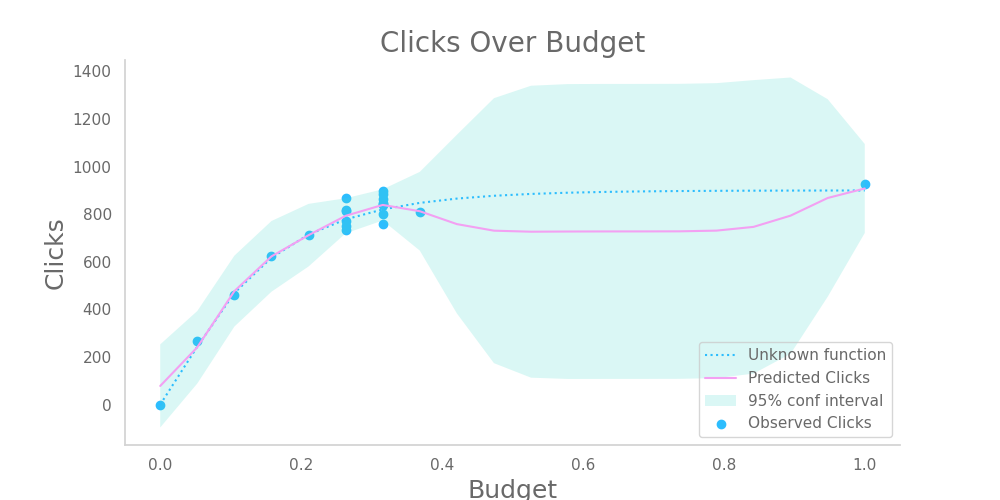
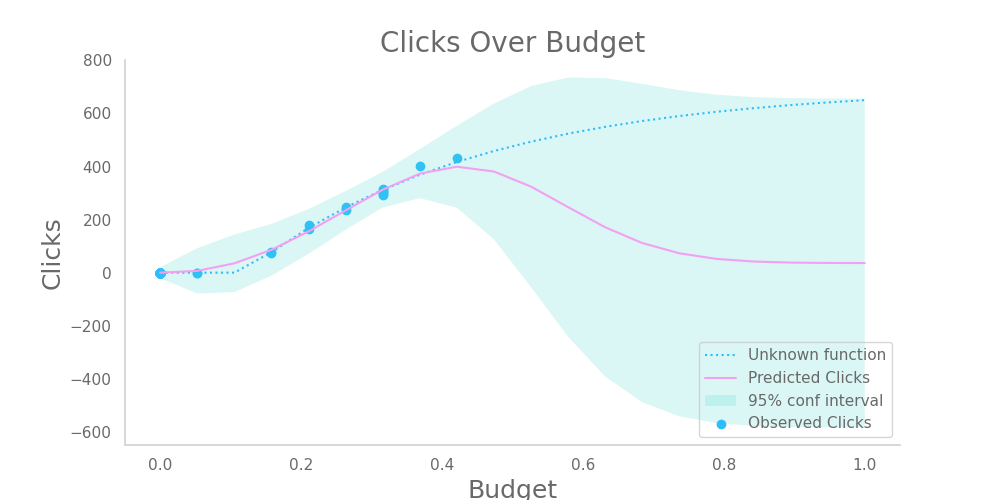
part 3 multiple tests

diff --git a/project/part_3/Testing_part3.py b/project/part_3/Testing_part3.py
@@ -16,7 +16,9 @@ from project.part_3.DynamicLearner import DynamicLearner
 
 def test_part3(n_experiments=10,
                chart_path='other_files/testing_part3.png',
-               title='Part 3 - Regret with Three Abrupt Phases'):
+               title='Part 3 - Regret with Three Abrupt Phases',
+               dl_change_detect_min_len=3,
+               dl_change_detect_test_stat=3):
     np.random.seed(0)
 
     bids = np.linspace(0, max_bid, n_arms_advertising)
@@ -32,7 +34,10 @@ def test_part3(n_experiments=10,
                 'n_subcamp': n_subcamp,
                 'n_arms': n_arms_advertising,
                 'n_obs': n_days,
-                'print_span': print_span}
+                'print_span': print_span,
+                'dl_change_detect_min_len': dl_change_detect_min_len,
+                'dl_change_detect_test_stat': dl_change_detect_test_stat
+            }
             args.append(args_i)
 
     with Pool(processes=multiprocessing.cpu_count()) as pool:
@@ -64,7 +69,8 @@ def test_part3(n_experiments=10,
         else:
             opt_clicks_per_experiments[learner_name] = [opt_clicks]
 
-    plt.title(title)
+    ylim = 0
+    plt.title(title, fontsize=14)
     # plot
     for i, ((learner_name, clicks_per_experiment), (opt_clicks_per_experiment)) in enumerate(
             zip(clicks_per_experiments.items(), opt_clicks_per_experiments.values())):
@@ -72,15 +78,27 @@ def test_part3(n_experiments=10,
         for clicks, opts in zip(clicks_per_experiment, opt_clicks_per_experiment):
             plt.plot(np.cumsum(opts - clicks), alpha=0.2, c=f'C{i + 1}')
 
-        plt.plot(np.cumsum(np.mean(opt_clicks_per_experiment, axis=0) - np.mean(clicks_per_experiment, axis=0)),
-                 c=f'C{i + 1}', label=f'{learner_name} - Mean Regret')
+        curve = np.cumsum(np.mean(opt_clicks_per_experiment, axis=0) - np.mean(clicks_per_experiment, axis=0))
+        ylim = curve[-1] if curve[-1] > ylim else ylim
+        plt.plot(curve, c=f'C{i + 1}', label=f'{learner_name} - Mean Regret')
 
     plt.ylabel('Regret')
     plt.xlabel('Time')
     plt.legend()
+    plt.ylim([0, ylim])
+
     plt.savefig(chart_path)
     plt.show()
 
 
 if __name__ == '__main__':
-    test_part3()
+    min_lens = [1, 2, 3, 4, 5]
+    test_stats = [2.5, 3, 4, 5]
+
+    for min_len in min_lens:
+        for test_stat in test_stats:
+            test_part3(n_experiments=10,
+                       chart_path=f'other_files/part3_min-len{min_len}_test-stat{test_stat}.png',
+                       title=f'Part 3 - Regret with Three Abrupt Phases [min_len:{min_len} test_stat:{test_stat}]',
+                       dl_change_detect_min_len=min_len,
+                       dl_change_detect_test_stat=test_stat)

diff --git a/project/part_7/SubCampaignHandler.py b/project/part_7/SubCampaignHandler.py
@@ -1,8 +1,9 @@
 import numpy as np
 
-from project.part_6.Advertising import Advertising
-from project.part_2.GPTS_Learner import GPTS_Learner
 from project.dia_pckg.Config import *
+from project.part_2.GPTS_Learner import GPTS_Learner
+from project.part_6.Advertising import Advertising
+
 
 ## bisogna far restituire click per subcampaign e aggiornare relative curve
 ## le curve dell'advertising sono aggiornate da advertising tramite get_daily_clicks, solo quelle del pricing vanno guardate
@@ -57,10 +58,10 @@ class SubCampaignHandler:
         # extracting the daily reward from the TS
         self.daily_clicks = self.advertising.get_daily_clicks(pulled_arm)
 
-        #daily_regret = self.get_daily_regret(self.daily_clicks, self.advertising.optimal_clicks,
+        # daily_regret = self.get_daily_regret(self.daily_clicks, self.advertising.optimal_clicks,
         #                                     self.daily_revenue, self.pricing.optimal_revenue)
 
-        #print('class: ', self.class_name,
+        # print('class: ', self.class_name,
         #      'optimal clicks: ', self.advertising.optimal_clicks,
         #      'collected clicks: ', round(self.daily_clicks),
         #      'optimal revenue: ', round(self.pricing.optimal_revenue * self.advertising.optimal_clicks),
@@ -68,7 +69,7 @@ class SubCampaignHandler:
 
         # self.total_revenue += self.daily_revenue
         # self.total_clicks += self.daily_clicks
-        #self.update_windows(self.daily_revenue, self.daily_clicks)
+        # self.update_windows(self.daily_revenue, self.daily_clicks)
 
         return self.daily_clicks
 
@@ -106,7 +107,7 @@ class SubCampaignHandler:
         :return:
         """
         arm_distance = int(product_config['max_price'] / self.n_arms_pricing)
-        prices = [int(arm_distance * arm) for arm in range(1, self.n_arms_pricing+1)]
+        prices = [int(arm_distance * arm) for arm in range(1, self.n_arms_pricing + 1)]
         return prices
 
     def update_conversion_rate(self, arm, value_conv_rate):

diff --git a/project/part_7/BudgetAllocator.py b/project/part_7/BudgetAllocator.py
@@ -2,8 +2,7 @@ import numpy as np
 
 from project.part_2.Optimizer import fit_table
 from project.part_2.Utils import get_idx_arm_from_allocation
-from project.part_7.MultiSubcampaignHandler import MultiSubcampaignHandler
-from project.part_2.GPTS_Learner import GPTS_Learner
+
 
 class BudgetAllocator:
     """
@@ -26,7 +25,7 @@ class BudgetAllocator:
 
         self.best_allocation = self.day_zero_initialization()
         self.regret = []
-        #self.optimal_total_revenue = self.get_optimal_total_revenue()
+        # self.optimal_total_revenue = self.get_optimal_total_revenue()
 
     def day_zero_initialization(self):
         """
@@ -49,22 +48,18 @@ class BudgetAllocator:
             learner_clicks = subcampaign_handler.get_updated_parameters()
 
             n_clicks = subcampaign_handler.total_clicks
-            #v = subcampaign_handler.total_revenue / n_clicks if n_clicks != 0 else 0
+            # v = subcampaign_handler.total_revenue / n_clicks if n_clicks != 0 else 0
             revenue_clicks = np.multiply(learner_clicks, v)
 
             table_all_subs = np.append(table_all_subs, np.atleast_2d(revenue_clicks.T), 0)
 
         self.best_allocation, self.predicted_clicks = fit_table(table_all_subs)
 
-        return np.asarray(self.best_allocation), self.predicted_clicks*self.learner
-
-
-
+        return np.asarray(self.best_allocation), self.predicted_clicks * self.learner
 
     def update_handlers(self):
         self.ch.update_all_subcampaign_handlers(self.best_allocation)
         self.regret.append(self.optimal_total_revenue - self.ch.daily_revenue)
-
 
     def get_optimal_total_revenue(self):
         """

diff --git a/project/part_3/DLChangeDetect.py b/project/part_3/DLChangeDetect.py
@@ -6,9 +6,10 @@ from project.part_2.GPTS_Learner import GPTS_Learner
 # Extension of the standard GP_Learner for implementing a sliding-window combinatorial
 # bandit algorithm due to the presence of multiple abrupt phases
 class DLChangeDetect(GPTS_Learner):
-    def __init__(self, n_arms, arms):
+    def __init__(self, n_arms, arms, min_len=3, test_stat=3):
         super().__init__(n_arms, arms)
-        self.min_len = 3  # minimum number of data in the arm
+        self.min_len = min_len  # minimum number of data in the arm
+        self.test_stat = test_stat
 
     def index_is_of_arm(self, pulled_arm):
         indices = np.array([])
@@ -26,7 +27,7 @@ class DLChangeDetect(GPTS_Learner):
 
             test = np.abs(mean_diff / std) if std != 0 else 0
 
-            if test > 3:
+            if test > self.test_stat:
                 print("CAMBIO len=" +
                       str(len(self.rewards_per_arm[pulled_arm])) +
                       " std=" + str(std) +

diff --git a/project/TestingOneShot.py b/project/TestingOneShot.py
@@ -62,8 +62,19 @@ if __name__ == '__main__':
 
     # PART 3
     print_('PART 3')
-    test_part3(n_experiments=n_experiment,
-               chart_path=f'{charts_path}/part3.png')
+
+    min_lens = [3, 5, 7]
+    test_stats = [2.5, 3, 4, 5]
+
+    for min_len in min_lens:
+        for test_stat in test_stats:
+            test_part3(n_experiments=n_experiment,
+                       chart_path=f'{charts_path}/part3_min-len{min_len}_test-stat{test_stat}.png',
+                       title=f'Part 3 - Regret with Three Abrupt Phases [min_len:{min_len} test_stat:{test_stat}]',
+                       dl_change_detect_min_len=min_len,
+                       dl_change_detect_test_stat=test_stat)
+            print_(f'Sub-test completed.\n'
+                   f'Time: {datetime.now()}\n')
     print_(f'Test completed.\n'
            f'Time: {datetime.now()}\n')
     print_('-' * 60)

diff --git a/project/part_7/MultiSubcampaignHandler.py b/project/part_7/MultiSubcampaignHandler.py
@@ -51,12 +51,12 @@ class MultiSubcampaignHandler:
             subcampaign_daily_clicks = subcampaign_handler.daily_update(pulled_arm)
             learner = subcampaign_handler.get_updated_parameters()
             learners.append(learner)
-            #total_daily_regret += subcampaign_daily_regret
-            #self.daily_revenue += subcampaign_daily_revenue
+            # total_daily_regret += subcampaign_daily_regret
+            # self.daily_revenue += subcampaign_daily_revenue
             self.daily_clicks.append([subcampaign_handler.class_name, subcampaign_daily_clicks])
 
         # saving revenue and regret
-        #self.total_revenue += self.daily_revenue
-        #self.regret.append(total_daily_regret)
+        # self.total_revenue += self.daily_revenue
+        # self.regret.append(total_daily_regret)
 
         return learners, self.daily_clicks

diff --git a/project/part_7/Testing_Env_7.py b/project/part_7/Testing_Env_7.py
@@ -10,8 +10,8 @@ from project.dia_pckg.Environment import Environment
 from project.dia_pckg.Product import Product
 from project.dia_pckg.plot_style.cb91visuals import *
 from project.part_4.MultiClassHandler import MultiClassHandler
-from project.part_7.MultiSubcampaignHandler import MultiSubcampaignHandler
 from project.part_7.BudgetAllocator import BudgetAllocator
+from project.part_7.MultiSubcampaignHandler import MultiSubcampaignHandler
 
 # np.random.seed(0)
 
@@ -40,7 +40,7 @@ def execute_experiment(args):
         for ba in budget_allocators:
             allocation, click = ba.compute_best_allocation()
 
-            #aggiungere reward all'if
+            # aggiungere reward all'if
             if click > best_click:
                 best_allocation = allocation
                 best_pricing = ba.arm_pricing

diff --git a/project/part_2/Learning_experiment.py b/project/part_2/Learning_experiment.py
@@ -20,7 +20,13 @@ def execute_experiment(args):
     click_each_day = pd.DataFrame(columns=['bid_sub1', 'bid_sub2', 'bid_sub3', "click1", "click2", "click3"])
 
     for i in range(0, n_subcamp):
-        learners.append(learner(n_arms, bids))
+        if learner.__name__ == 'DLChangeDetect':
+            dl_change_detect_min_len = args['dl_change_detect_min_len']
+            dl_change_detect_test_stat = args['dl_change_detect_test_stat']
+            learners.append(
+                learner(n_arms, bids, min_len=dl_change_detect_min_len, test_stat=dl_change_detect_test_stat))
+        else:
+            learners.append(learner(n_arms, bids))
 
     for d in range(0, n_obs):
         if first_day:

diff --git a/project/dia_pckg/Config.py b/project/dia_pckg/Config.py
@@ -4,7 +4,7 @@
 
 # campaign
 initial_date = '20200101'
-n_days = 50
+n_days = 100
 
 # Seller wallet and ambitions
 seller_max_budget = 20000  # $
@@ -37,7 +37,7 @@ n_abrupts_phases = 3
 # directory to store the curves
 demand_path = 'demand_curves'
 
-len_window = 5
+len_window = 20
 phase_len = n_days // n_abrupts_phases
 # Since n_abrupts_phases is odd and n_days could be even we add 1 to obtain equal phases
 phase_len = phase_len + 1 if n_days % 2 == 0 else phase_len

diff --git a/project/part_2/Testing_part2.py b/project/part_2/Testing_part2.py
@@ -28,7 +28,8 @@ def test_part2(n_experiments=10,
             'n_subcamp': n_subcamp,
             'n_arms': n_arms_advertising,
             'n_obs': n_days,
-            'print_span': print_span}
+            'print_span': print_span
+        }
         args.append(args_i)
 
     with Pool(processes=multiprocessing.cpu_count()) as pool:

diff --git a/project/part_6/Testing_Env_6.py b/project/part_6/Testing_Env_6.py
@@ -86,7 +86,7 @@ def test_part6(n_experiments=10,
 
     plt.xlabel('Time')
     plt.ylabel('Regret')
-    plt.ylim([0, 2e6])
+    plt.ylim([0, np.cumsum(np.mean(regret_per_experiment, axis=0))[-1]])
     plt.legend()
     plt.savefig(results_chart_path)
     plt.show()
